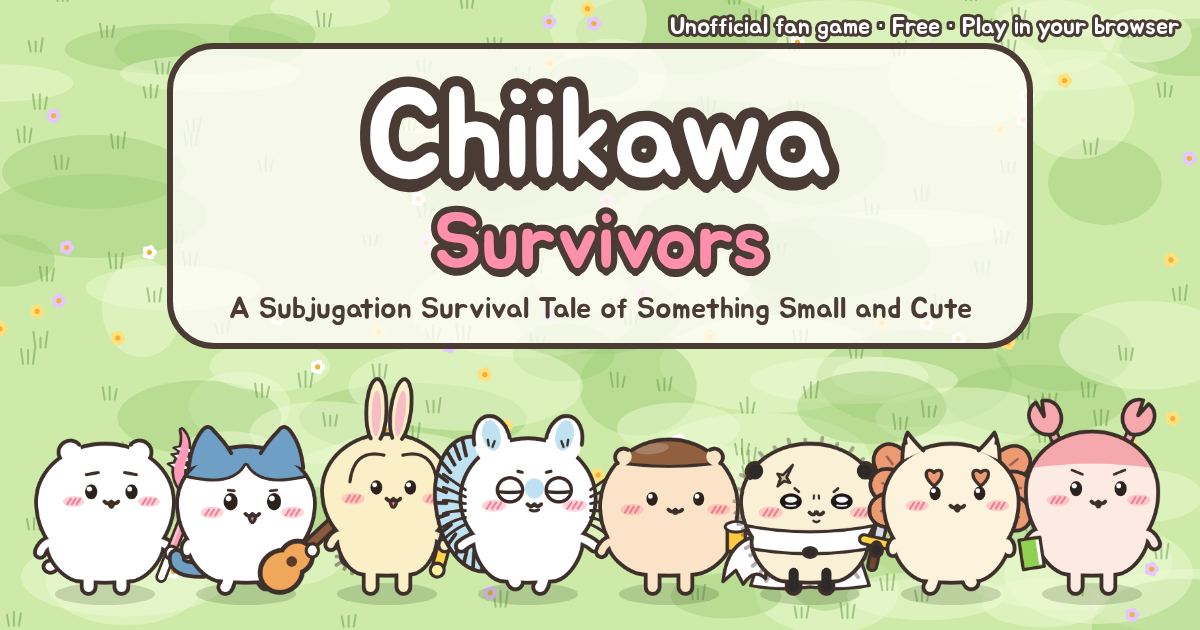
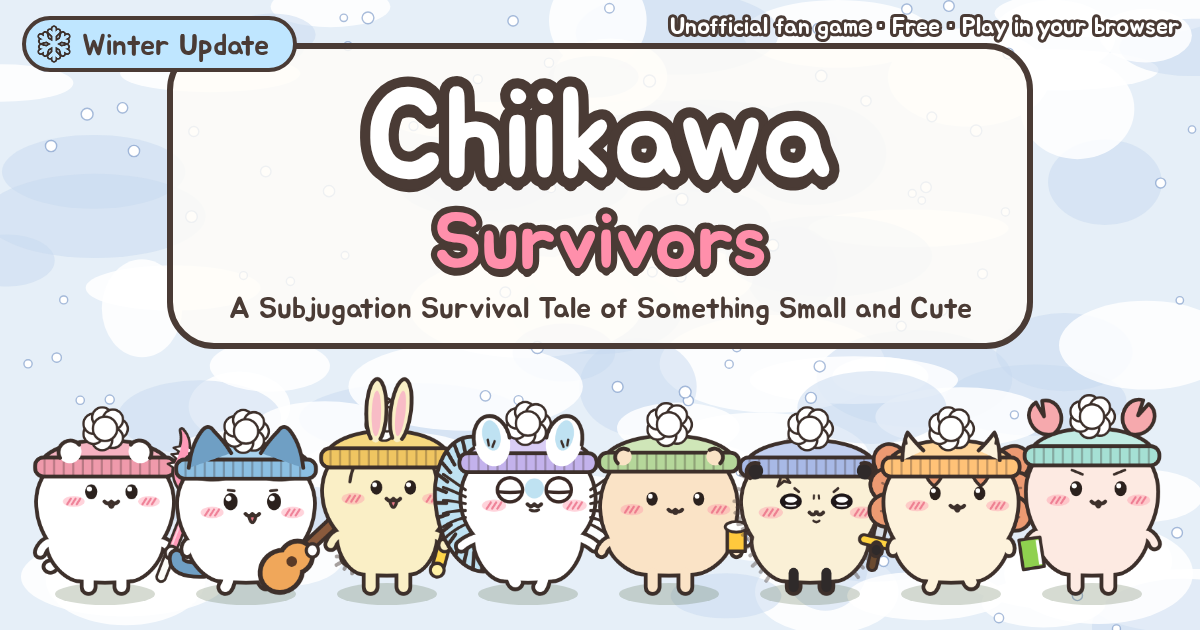
SEO 겨울 업데이트 — 검색 설명 · 키워드 · 공유 미리보기(제목 · 설명) · 구조화 데이터(업데이트 날짜 · 5개 언어 · 무료) · 사이트맵 날짜 · noscript 안내를 다섯 말로. 공유 썸네일(og · og-en/ja/zh-cn/zh-tw)을 눈밭 · 털모자 · 「겨울 업데이트」 꼬리표로 새로 그리고 주소를 바꿔 캐시를 비운다(아이콘은 그대로). 상점 의상 · 무기 스킨 미리 보기 — 캐릭터 칸 · 설명 칸 비율을 고정해 이름 길이에 따라 캐릭터가 움직이지 않게. 겨울 업데이트 홍보 숏츠 스크립트(test/promo-

diff --git a/index.html b/index.html
@@ -4,8 +4,8 @@
 <meta charset="utf-8">
 <meta name="viewport" content="width=device-width, initial-scale=1, viewport-fit=cover">
 <title>먼작귀 서바이버즈 — 치이카와 비공식 팬게임 · 무료 브라우저 생존 게임</title>
-<meta name="description" content="먼가 작고 귀여운 녀석(치이카와) 비공식 팬게임. 치이카와 · 하치와레 · 우사기 · 모몽가 · 쿠리만쥬 · 랏코 · 시사 · 카니와 함께 몰려오는 토벌 대상을 피해 버티고, 25분 뒤 나타나는 세이렌을 쓰러뜨리는 뱀파이어 서바이버즈류 생존 게임. 설치 없이 키보드 · 휴대폰 터치로 바로 플레이.">
-<meta name="keywords" content="먼작귀, 먼작귀 서바이버즈, 치이카와, ちいかわ, 하치와레, 우사기, 모몽가, 쿠리만쥬, 랏코, 팬게임, 뱀파이어 서바이버즈, 웹게임, 무료 게임, 브라우저 게임, 모바일 게임">
+<meta name="description" content="먼가 작고 귀여운 녀석(치이카와) 비공식 팬게임. 치이카와 · 하치와레 · 우사기 · 모몽가 · 쿠리만쥬 · 랏코 · 시사 · 카니와 함께 몰려오는 토벌 대상을 피해 버티고, 25분 뒤 나타나는 세이렌을 쓰러뜨리는 뱀파이어 서바이버즈류 생존 게임. 겨울 업데이트 — 눈보라 몰아치는 겨울 맵 · 의상 21종 · 무기 · 스킬 스킨 · 업적. 설치 없이 PC · 휴대폰 브라우저에서 무료로 바로 플레이(한국어 · 日本語 · English · 中文).">
+<meta name="keywords" content="먼작귀, 먼작귀 서바이버즈, 먼작귀 게임, 치이카와, 치이카와 게임, ちいかわ, ちいかわサバイバーズ, Chiikawa Survivors, 吉伊卡哇, 하치와레, 우사기, 모몽가, 쿠리만쥬, 랏코, 시사, 카니, 팬게임, 뱀파이어 서바이버즈, 겨울 맵, 눈보라, 의상, 코스튬, 스킨, 웹게임, 무료 게임, 브라우저 게임, 모바일 게임">
 <meta name="robots" content="index, follow, max-image-preview:large">
 <link rel="canonical" href="https://chii-ka-wa.github.io/">
 <meta name="naver-site-verification" content="99f609d48e04b898a8d96d0a99599691e2e6b802">
@@ -16,16 +16,16 @@
 <meta property="og:site_name" content="먼작귀 서바이버즈">
 <meta property="og:locale" content="ko_KR">
 <meta property="og:url" content="https://chii-ka-wa.github.io/">
-<meta property="og:title" content="먼작귀 서바이버즈 — 치이카와 팬게임">
-<meta property="og:description" content="치이카와 · 하치와레 · 우사기 · 모몽가 · 쿠리만쥬 · 랏코 · 시사 · 카니와 함께 토벌 생존! 25분 뒤 나타나는 세이렌을 쓰러뜨려라. 설치 없이 브라우저에서 바로.">
-<meta property="og:image" content="https://chii-ka-wa.github.io/og.png?v=2">
+<meta property="og:title" content="먼작귀 서바이버즈 — 치이카와 팬게임 · 겨울 업데이트">
+<meta property="og:description" content="치이카와 · 하치와레 · 우사기 · 모몽가 · 쿠리만쥬 · 랏코 · 시사 · 카니와 함께 토벌 생존! 눈보라 몰아치는 겨울 맵 · 의상 21종 · 무기 · 스킬 스킨 업데이트. 25분 뒤 나타나는 세이렌을 쓰러뜨려라. 설치 없이 브라우저에서 바로.">
+<meta property="og:image" content="https://chii-ka-wa.github.io/og.png?v=3">
 <meta property="og:image:width" content="1200">
 <meta property="og:image:height" content="630">
-<meta property="og:image:alt" content="먼작귀 서바이버즈 — 풀밭에 나란히 선 치이카와와 친구들">
+<meta property="og:image:alt" content="먼작귀 서바이버즈 — 눈밭에 털모자를 쓰고 나란히 선 치이카와와 친구들">
 <meta name="twitter:card" content="summary_large_image">
-<meta name="twitter:title" content="먼작귀 서바이버즈 — 치이카와 팬게임">
-<meta name="twitter:description" content="몰려오는 토벌 대상을 피해 버티고 최종보스 세이렌을 쓰러뜨리는 무료 브라우저 생존 게임.">
-<meta name="twitter:image" content="https://chii-ka-wa.github.io/og.png?v=2">
+<meta name="twitter:title" content="먼작귀 서바이버즈 — 치이카와 팬게임 · 겨울 업데이트">
+<meta name="twitter:description" content="눈보라 몰아치는 겨울 맵에서 몰려오는 토벌 대상을 피해 버티고 최종보스 세이렌을 쓰러뜨리는 무료 브라우저 생존 게임. 의상 21종 · 스킨 업데이트.">
+<meta name="twitter:image" content="https://chii-ka-wa.github.io/og.png?v=3">
 <!-- 아이콘 -->
 <link rel="icon" type="image/png" sizes="64x64" href="favicon.png?v=2">
 <link rel="apple-touch-icon" sizes="180x180" href="apple-touch-icon.png?v=2">
@@ -38,9 +38,13 @@
   "name": "먼작귀 서바이버즈",
   "alternateName": "Chiikawa Survivors (fan game)",
   "url": "https://chii-ka-wa.github.io/",
-  "image": "https://chii-ka-wa.github.io/og.png",
-  "description": "치이카와 비공식 팬게임. 몰려오는 토벌 대상을 피해 버티고 25분 뒤 나타나는 세이렌을 쓰러뜨리는 뱀파이어 서바이버즈류 생존 게임.",
-  "inLanguage": "ko",
+  "image": "https://chii-ka-wa.github.io/og.png?v=3",
+  "description": "치이카와 비공식 팬게임. 몰려오는 토벌 대상을 피해 버티고 25분 뒤 나타나는 세이렌을 쓰러뜨리는 뱀파이어 서바이버즈류 생존 게임. 겨울 업데이트 — 눈보라 몰아치는 겨울 맵, 의상 21종, 무기 · 스킬 스킨, 업적 17가지.",
+  "inLanguage": ["ko", "ja", "en", "zh-CN", "zh-TW"],
+  "dateModified": "2026-11-17",
+  "keywords": "먼작귀, 치이카와, ちいかわ, Chiikawa, 팬게임, 뱀파이어 서바이버즈, 겨울 맵, 눈보라, 의상, 스킨",
+  "playMode": "SinglePlayer",
+  "offers": { "@type": "Offer", "price": "0", "priceCurrency": "KRW", "availability": "https://schema.org/InStock" },
   "genre": ["액션", "로그라이크", "생존"],
   "gamePlatform": ["웹 브라우저", "PC", "모바일"],
   "applicationCategory": "Game",
@@ -283,6 +287,9 @@ button.chip:hover, button.chip.on { box-shadow: 0 0 0 3px var(--pink) }
 .wr-view canvas.wr-pv { width: 190px; height: 176px }
 .wardrobe .scroll .wr-view { position: sticky; top: 0; z-index: 2; box-shadow: 0 4px 0 rgba(74,59,53,.08) }   /* 입어 볼 때 미리 보기가 늘 보이게(목록만 아래로 흐른다) */
 .wr-view.sk { flex-direction: column; gap: 0; text-align: center }   /* 스킬 스킨 — 원래 · 스킨 나란히, 글은 아래 */
+.wr-view:not(.sk):not([hidden]) { display: grid; grid-template-columns: 46% 1fr; justify-content: stretch }   /* 의상 · 무기 스킨 — 캐릭터 칸 · 설명 칸 비율을 고정(이름 길이에 따라 캐릭터가 움직이지 않게) */
+.wr-view:not(.sk) canvas.wr-pv { justify-self: center }
+.wr-view:not(.sk) > p { justify-self: start; min-width: 0; margin: 0; overflow-wrap: anywhere }
 .wr-view canvas.wr-pv.sk-pv { width: 280px; height: 121px }
 .wr-view b { display: block; font-size: 22px; font-weight: normal; color: var(--ink) }
 .wr-view small { display: block; font-size: 15px; color: var(--soft) }
@@ -361,7 +368,7 @@ button.chip:hover, button.chip.on { box-shadow: 0 0 0 3px var(--pink) }
 </style>
 </head>
 <body>
-<noscript><div class="panel" style="margin:40px auto"><h1>먼작귀 서바이버즈</h1><p>치이카와 비공식 팬게임 — 몰려오는 토벌 대상을 피해 버티고 25분 뒤 나타나는 최종보스 세이렌을 쓰러뜨리는 무료 브라우저 생존 게임이에요. 플레이하려면 자바스크립트를 켜 주세요.</p></div></noscript>
+<noscript><div class="panel" style="margin:40px auto"><h1>먼작귀 서바이버즈</h1><p>치이카와 비공식 팬게임 — 몰려오는 토벌 대상을 피해 버티고 25분 뒤 나타나는 최종보스 세이렌을 쓰러뜨리는 무료 브라우저 생존 게임이에요. 겨울 업데이트: 눈보라 몰아치는 겨울 맵 · 의상 21종 · 무기 · 스킬 스킨. 플레이하려면 자바스크립트를 켜 주세요.</p></div></noscript>
 <canvas id="cv" aria-label="먼작귀 서바이버즈 게임 화면"></canvas>
 <button type="button" id="pause" aria-label="일시정지" hidden><svg viewBox="0 0 24 24" width="18" height="18" aria-hidden="true"><rect x="5" y="4" width="5" height="16" rx="1.5" fill="currentColor"/><rect x="14" y="4" width="5" height="16" rx="1.5" fill="currentColor"/></svg></button>
 <button type="button" id="snd" aria-label="소리 크기"></button>

diff --git a/ja/index.html b/ja/index.html
@@ -5,22 +5,22 @@
 <meta name="viewport" content="width=device-width, initial-scale=1">
 <!-- 일본어 홍보 링크 chii-ka-wa.github.io/ja/ — 일본어 미리보기를 보여 주고 게임(/?lang=ja)으로 바로 보낸다 -->
 <title>ちいかわサバイバーズ — ブラウザで遊べる無料のちいかわファンゲーム</title>
-<meta name="description" content="ちいかわ・ハチワレ・うさぎ・モモンガ・くりまんじゅう・ラッコ・シーサー・古本屋といっしょに、おしよせるゴブリンやキメラから生きのこって、最終ボス・セイレーンをたおそう！無料・インストール不要・PCとスマホで遊べる非公式ファンゲーム。">
+<meta name="description" content="ちいかわ・ハチワレ・うさぎ・モモンガ・くりまんじゅう・ラッコ・シーサー・古本屋といっしょに、おしよせるゴブリンやキメラから生きのこって、最終ボス・セイレーンをたおそう！冬のアップデート — ふぶきの冬マップ・おきがえ21種・武器とスキルのスキン。無料・インストール不要・PCとスマホで遊べる非公式ファンゲーム。">
 <link rel="canonical" href="https://chii-ka-wa.github.io/">
 <meta property="og:type" content="website">
 <meta property="og:site_name" content="ちいかわサバイバーズ">
 <meta property="og:locale" content="ja_JP">
 <meta property="og:url" content="https://chii-ka-wa.github.io/ja/">
-<meta property="og:title" content="ちいかわサバイバーズ — 無料のちいかわファンゲーム">
-<meta property="og:description" content="ちいかわたちが主人公のヴァンサバ風ゲーム。25分生きのこってセイレーンをたおそう！無料・インストール不要・PC/スマホ対応。">
-<meta property="og:image" content="https://chii-ka-wa.github.io/og-ja.png">
+<meta property="og:title" content="ちいかわサバイバーズ — 無料のちいかわファンゲーム・冬のアップデート">
+<meta property="og:description" content="ちいかわたちが主人公のヴァンサバ風ゲーム。ふぶきの冬マップ・おきがえ21種・スキンが新登場！25分生きのこってセイレーンをたおそう！無料・インストール不要・PC/スマホ対応。">
+<meta property="og:image" content="https://chii-ka-wa.github.io/og-ja.png?v=2">
 <meta property="og:image:width" content="1200">
 <meta property="og:image:height" content="630">
-<meta property="og:image:alt" content="ちいかわサバイバーズ — 草原にならんだちいかわと仲間たち">
+<meta property="og:image:alt" content="ちいかわサバイバーズ — 雪原にニットぼうでならんだちいかわと仲間たち">
 <meta name="twitter:card" content="summary_large_image">
-<meta name="twitter:title" content="ちいかわサバイバーズ — 無料のちいかわファンゲーム">
-<meta name="twitter:description" content="おしよせる討伐対象から生きのこって、最終ボス・セイレーンをたおそう。無料のブラウザゲーム。">
-<meta name="twitter:image" content="https://chii-ka-wa.github.io/og-ja.png">
+<meta name="twitter:title" content="ちいかわサバイバーズ — 無料のちいかわファンゲーム・冬のアップデート">
+<meta name="twitter:description" content="ふぶきの冬マップで、おしよせる討伐対象から生きのこって、最終ボス・セイレーンをたおそう。おきがえ21種・スキンも。無料のブラウザゲーム。">
+<meta name="twitter:image" content="https://chii-ka-wa.github.io/og-ja.png?v=2">
 <link rel="icon" type="image/png" sizes="64x64" href="../favicon.png?v=2">
 <link rel="apple-touch-icon" sizes="180x180" href="../apple-touch-icon.png?v=2">
 <meta http-equiv="refresh" content="0; url=../?lang=ja">

diff --git a/zh-cn/index.html b/zh-cn/index.html
@@ -5,22 +5,22 @@
 <meta name="viewport" content="width=device-width, initial-scale=1">
 <!-- 중국어(간체) 홍보 링크 chii-ka-wa.github.io/zh-cn/ — 간체 미리보기를 보여 주고 게임(/?lang=zh-CN)으로 바로 보낸다 -->
 <title>吉伊卡哇幸存者 — 浏览器即可畅玩的免费吉伊卡哇粉丝游戏</title>
-<meta name="description" content="和吉伊卡哇、小八、乌萨奇、小桃、栗子馒头、海獭、狮萨、古本屋一起，躲开蜂拥而来的哥布林和奇美拉，打倒最终BOSS塞壬！免费、无需安装，电脑和手机都能玩的非官方粉丝游戏。">
+<meta name="description" content="和吉伊卡哇、小八、乌萨奇、小桃、栗子馒头、海獭、狮萨、古本屋一起，躲开蜂拥而来的哥布林和奇美拉，打倒最终BOSS塞壬！冬季更新 — 暴风雪冬季地图、21套服装、武器和技能皮肤。免费、无需安装，电脑和手机都能玩的非官方粉丝游戏。">
 <link rel="canonical" href="https://chii-ka-wa.github.io/">
 <meta property="og:type" content="website">
 <meta property="og:site_name" content="吉伊卡哇幸存者">
 <meta property="og:locale" content="zh_CN">
 <meta property="og:url" content="https://chii-ka-wa.github.io/zh-cn/">
-<meta property="og:title" content="吉伊卡哇幸存者 — 免费吉伊卡哇粉丝游戏">
-<meta property="og:description" content="以吉伊卡哇为主角的类吸血鬼幸存者游戏。坚持25分钟，打倒塞壬！免费、无需安装，支持电脑和手机。">
-<meta property="og:image" content="https://chii-ka-wa.github.io/og-zh-cn.png">
+<meta property="og:title" content="吉伊卡哇幸存者 — 免费吉伊卡哇粉丝游戏 · 冬季更新">
+<meta property="og:description" content="以吉伊卡哇为主角的类吸血鬼幸存者游戏。全新暴风雪冬季地图、21套服装和皮肤！坚持25分钟，打倒塞壬！免费、无需安装，支持电脑和手机。">
+<meta property="og:image" content="https://chii-ka-wa.github.io/og-zh-cn.png?v=2">
 <meta property="og:image:width" content="1200">
 <meta property="og:image:height" content="630">
-<meta property="og:image:alt" content="吉伊卡哇幸存者 — 草地上排排站的吉伊卡哇和伙伴们">
+<meta property="og:image:alt" content="吉伊卡哇幸存者 — 雪地上戴着毛线帽排排站的吉伊卡哇和伙伴们">
 <meta name="twitter:card" content="summary_large_image">
-<meta name="twitter:title" content="吉伊卡哇幸存者 — 免费吉伊卡哇粉丝游戏">
-<meta name="twitter:description" content="躲开蜂拥而来的讨伐对象，打倒最终BOSS塞壬。免费浏览器游戏，支持电脑和手机。">
-<meta name="twitter:image" content="https://chii-ka-wa.github.io/og-zh-cn.png">
+<meta name="twitter:title" content="吉伊卡哇幸存者 — 免费吉伊卡哇粉丝游戏 · 冬季更新">
+<meta name="twitter:description" content="在暴风雪冬季地图躲开蜂拥而来的讨伐对象，打倒最终BOSS塞壬。21套服装和皮肤。免费浏览器游戏，支持电脑和手机。">
+<meta name="twitter:image" content="https://chii-ka-wa.github.io/og-zh-cn.png?v=2">
 <link rel="icon" type="image/png" sizes="64x64" href="../favicon.png?v=2">
 <link rel="apple-touch-icon" sizes="180x180" href="../apple-touch-icon.png?v=2">
 <meta http-equiv="refresh" content="0; url=../?lang=zh-CN">

diff --git a/zh-tw/index.html b/zh-tw/index.html
@@ -5,22 +5,22 @@
 <meta name="viewport" content="width=device-width, initial-scale=1">
 <!-- 중국어(번체) 홍보 링크 chii-ka-wa.github.io/zh-tw/ — 번체 미리보기를 보여 주고 게임(/?lang=zh-TW)으로 바로 보낸다 -->
 <title>吉伊卡哇倖存者 — 用瀏覽器就能玩的免費吉伊卡哇同人遊戲</title>
-<meta name="description" content="和吉伊卡哇、小八、兔兔、小桃、栗子饅頭、海獺、獅薩、古本屋一起，躲開湧過來的哥布林和奇美拉，打倒最終頭目賽蓮！免費、免安裝，電腦和手機都能玩的非官方同人遊戲。">
+<meta name="description" content="和吉伊卡哇、小八、兔兔、小桃、栗子饅頭、海獺、獅薩、古本屋一起，躲開湧過來的哥布林和奇美拉，打倒最終頭目賽蓮！冬季更新 — 暴風雪冬季地圖、21套服裝、武器和技能造型。免費、免安裝，電腦和手機都能玩的非官方同人遊戲。">
 <link rel="canonical" href="https://chii-ka-wa.github.io/">
 <meta property="og:type" content="website">
 <meta property="og:site_name" content="吉伊卡哇倖存者">
 <meta property="og:locale" content="zh_TW">
 <meta property="og:url" content="https://chii-ka-wa.github.io/zh-tw/">
-<meta property="og:title" content="吉伊卡哇倖存者 — 免費吉伊卡哇同人遊戲">
-<meta property="og:description" content="以吉伊卡哇為主角的吸血鬼倖存者風格遊戲。撐過25分鐘，打倒賽蓮！免費、免安裝，支援電腦和手機。">
-<meta property="og:image" content="https://chii-ka-wa.github.io/og-zh-tw.png">
+<meta property="og:title" content="吉伊卡哇倖存者 — 免費吉伊卡哇同人遊戲 · 冬季更新">
+<meta property="og:description" content="以吉伊卡哇為主角的吸血鬼倖存者風格遊戲。全新暴風雪冬季地圖、21套服裝和造型！撐過25分鐘，打倒賽蓮！免費、免安裝，支援電腦和手機。">
+<meta property="og:image" content="https://chii-ka-wa.github.io/og-zh-tw.png?v=2">
 <meta property="og:image:width" content="1200">
 <meta property="og:image:height" content="630">
-<meta property="og:image:alt" content="吉伊卡哇倖存者 — 草地上排排站的吉伊卡哇和夥伴們">
+<meta property="og:image:alt" content="吉伊卡哇倖存者 — 雪地上戴著毛線帽排排站的吉伊卡哇和夥伴們">
 <meta name="twitter:card" content="summary_large_image">
-<meta name="twitter:title" content="吉伊卡哇倖存者 — 免費吉伊卡哇同人遊戲">
-<meta name="twitter:description" content="躲開湧過來的討伐對象，打倒最終頭目賽蓮。免費瀏覽器遊戲，支援電腦和手機。">
-<meta name="twitter:image" content="https://chii-ka-wa.github.io/og-zh-tw.png">
+<meta name="twitter:title" content="吉伊卡哇倖存者 — 免費吉伊卡哇同人遊戲 · 冬季更新">
+<meta name="twitter:description" content="在暴風雪冬季地圖躲開湧過來的討伐對象，打倒最終頭目賽蓮。21套服裝和造型。免費瀏覽器遊戲，支援電腦和手機。">
+<meta name="twitter:image" content="https://chii-ka-wa.github.io/og-zh-tw.png?v=2">
 <link rel="icon" type="image/png" sizes="64x64" href="../favicon.png?v=2">
 <link rel="apple-touch-icon" sizes="180x180" href="../apple-touch-icon.png?v=2">
 <meta http-equiv="refresh" content="0; url=../?lang=zh-TW">

diff --git a/en/index.html b/en/index.html
@@ -5,22 +5,22 @@
 <meta name="viewport" content="width=device-width, initial-scale=1">
 <!-- 영어 홍보 링크 chii-ka-wa.github.io/en/ — 영어 미리보기(레딧 · X 등)를 보여 주고 게임(/?lang=en)으로 바로 보낸다 -->
 <title>Chiikawa Survivors — a free Chiikawa fan game in your browser</title>
-<meta name="description" content="Survive the swarming goblins and chimeras with Chiikawa, Hachiware, Usagi, Momonga, Kurimanju, Rakko, Shisa and Kani-chan, then defeat the final boss Siren. Free, no install — PC and mobile. Unofficial fan game.">
+<meta name="description" content="Survive the swarming goblins and chimeras with Chiikawa, Hachiware, Usagi, Momonga, Kurimanju, Rakko, Shisa and Kani-chan, then defeat the final boss Siren. Winter update: a blizzard map, 21 costumes, weapon & skill skins. Free, no install — PC and mobile. Unofficial fan game.">
 <link rel="canonical" href="https://chii-ka-wa.github.io/">
 <meta property="og:type" content="website">
 <meta property="og:site_name" content="Chiikawa Survivors">
 <meta property="og:locale" content="en_US">
 <meta property="og:url" content="https://chii-ka-wa.github.io/en/">
-<meta property="og:title" content="Chiikawa Survivors — free Chiikawa fan game">
-<meta property="og:description" content="A cute Vampire Survivors-style game starring Chiikawa & friends. Survive 25 minutes and defeat Siren! Free, no install, PC and mobile.">
-<meta property="og:image" content="https://chii-ka-wa.github.io/og-en.png">
+<meta property="og:title" content="Chiikawa Survivors — free Chiikawa fan game · Winter Update">
+<meta property="og:description" content="A cute Vampire Survivors-style game starring Chiikawa & friends. New: a snowy blizzard map, 21 costumes and skins! Survive 25 minutes and defeat Siren. Free, no install, PC and mobile.">
+<meta property="og:image" content="https://chii-ka-wa.github.io/og-en.png?v=2">
 <meta property="og:image:width" content="1200">
 <meta property="og:image:height" content="630">
-<meta property="og:image:alt" content="Chiikawa Survivors — Chiikawa and friends lined up on a grassy field">
+<meta property="og:image:alt" content="Chiikawa Survivors — Chiikawa and friends in knit hats on a snowy field">
 <meta name="twitter:card" content="summary_large_image">
-<meta name="twitter:title" content="Chiikawa Survivors — free Chiikawa fan game">
-<meta name="twitter:description" content="Survive the swarm and defeat the final boss Siren. Free browser game, PC and mobile.">
-<meta name="twitter:image" content="https://chii-ka-wa.github.io/og-en.png">
+<meta name="twitter:title" content="Chiikawa Survivors — free Chiikawa fan game · Winter Update">
+<meta name="twitter:description" content="Survive the swarm on the new blizzard map and defeat the final boss Siren. 21 costumes & skins. Free browser game, PC and mobile.">
+<meta name="twitter:image" content="https://chii-ka-wa.github.io/og-en.png?v=2">
 <link rel="icon" type="image/png" sizes="64x64" href="../favicon.png?v=2">
 <link rel="apple-touch-icon" sizes="180x180" href="../apple-touch-icon.png?v=2">
 <meta http-equiv="refresh" content="0; url=../?lang=en">

diff --git a/game.js b/game.js
@@ -3973,4 +3973,4 @@ size()
 title()
 requestAnimationFrame(frame)
 // 점검용 — 브라우저 콘솔 · 자동 테스트에서 판을 빨리 돌려 본다
-if (!SECURE) window.__mjg = { OUTFIT, WSKIN, SKIN, wornId, outfitOf, shop, stormHurts, charSprites, render, autoQ, addWeapon, WEAP, PLAN, wstat, spawn, LOOT, WANDER, SND, get LQ() { return LQ }, get SPR() { return SPR }, get K() { return K }, FINAL_T, DARK_T, END_T, sasu: sasuShape, ICO, ico: icoSpr, statRow, STATS, step, startGame, resume, summon, art: artSprite, WALK, CHARS, get G() { return G }, get pl() { return pl }, get mode() { return mode }, pick0() { if (BOX) { take(BOX.opts[0]); next() } } }
+if (!SECURE) window.__mjg = { adv: dt => { tnow += dt }, OUTFIT, WSKIN, SKIN, wornId, outfitOf, shop, stormHurts, charSprites, render, autoQ, addWeapon, WEAP, PLAN, wstat, spawn, LOOT, WANDER, SND, get LQ() { return LQ }, get SPR() { return SPR }, get K() { return K }, FINAL_T, DARK_T, END_T, sasu: sasuShape, ICO, ico: icoSpr, statRow, STATS, step, startGame, resume, summon, art: artSprite, WALK, CHARS, get G() { return G }, get pl() { return pl }, get mode() { return mode }, pick0() { if (BOX) { take(BOX.opts[0]); next() } } }
